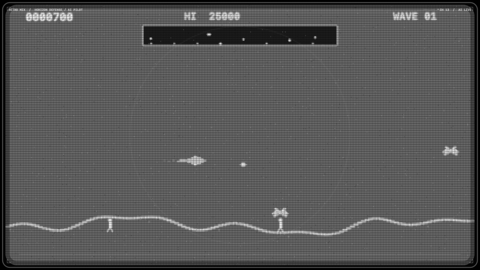
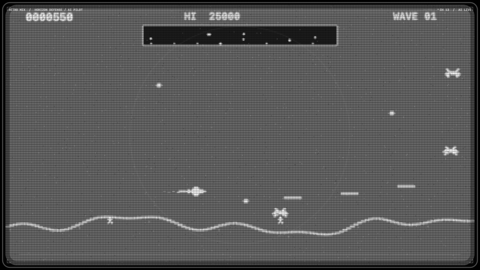
Update sprites and karate bonus for 1.9.5

diff --git a/README.md b/README.md
@@ -24,7 +24,7 @@ The image shows an already unlocked JMR license.
 
 ## Download and install
 
-Download the ZIP from [version 1.9.4](https://github.com/mikaelmoran/retro-mix-arcade-downloads/releases/tag/v1.9.4), expand it, and move
+Download the ZIP from [version 1.9.5](https://github.com/mikaelmoran/retro-mix-arcade-downloads/releases/tag/v1.9.5), expand it, and move
 **Retro Mix Arcade.app** to Applications. Open the app, choose a game, and
 click **Save selection**. In **System Settings → Wallpaper → Screen Saver**,
 choose **Retro Mix Arcade**.
@@ -78,7 +78,7 @@ Security → Open Anyway** as described in [Apple's instructions](https://suppor
   around barrels that roll downhill, and draw lines to claim territory while avoiding hazards. Each has four optional
   game effects alongside the shared CRT controls.
 - Karate Duel features two AI fighters with detailed pixel-art sprites, animated punches, spinning and low kicks, blocks,
-  scoring rounds, and a referee. It draws inspiration from Karate Champ.
+  scoring rounds, and a referee with a bonus celebration. It draws inspiration from Karate Champ.
 - Tank Duel's dark field, bright walls, small rotating tanks, and simple score
   display take cues from the original arcade game.
 - A moving JMR watermark that can be removed with a personal code from the

diff --git a/RELEASE_NOTES.md b/RELEASE_NOTES.md
@@ -1,4 +1,6 @@
-# Retro Mix Arcade 1.9.4
+# Retro Mix Arcade 1.9.5
 
-- Added a custom pixel-art referee to Karate Duel, with individual point-signalling poses and exaggerated follow-through animation.
-- Keeps the shared monochrome CRT presentation and all existing game settings.
+- Added an occasional Karate Duel bonus celebration after a clean spinning kick.
+- The referee moves into the foreground, jumps, and returns as the match continues.
+- Refined pixel-art creatures in Garden Swarm and River Crossing.
+- Added animated pixel characters and vehicles in Horizon Defense and Barrel Climb.
